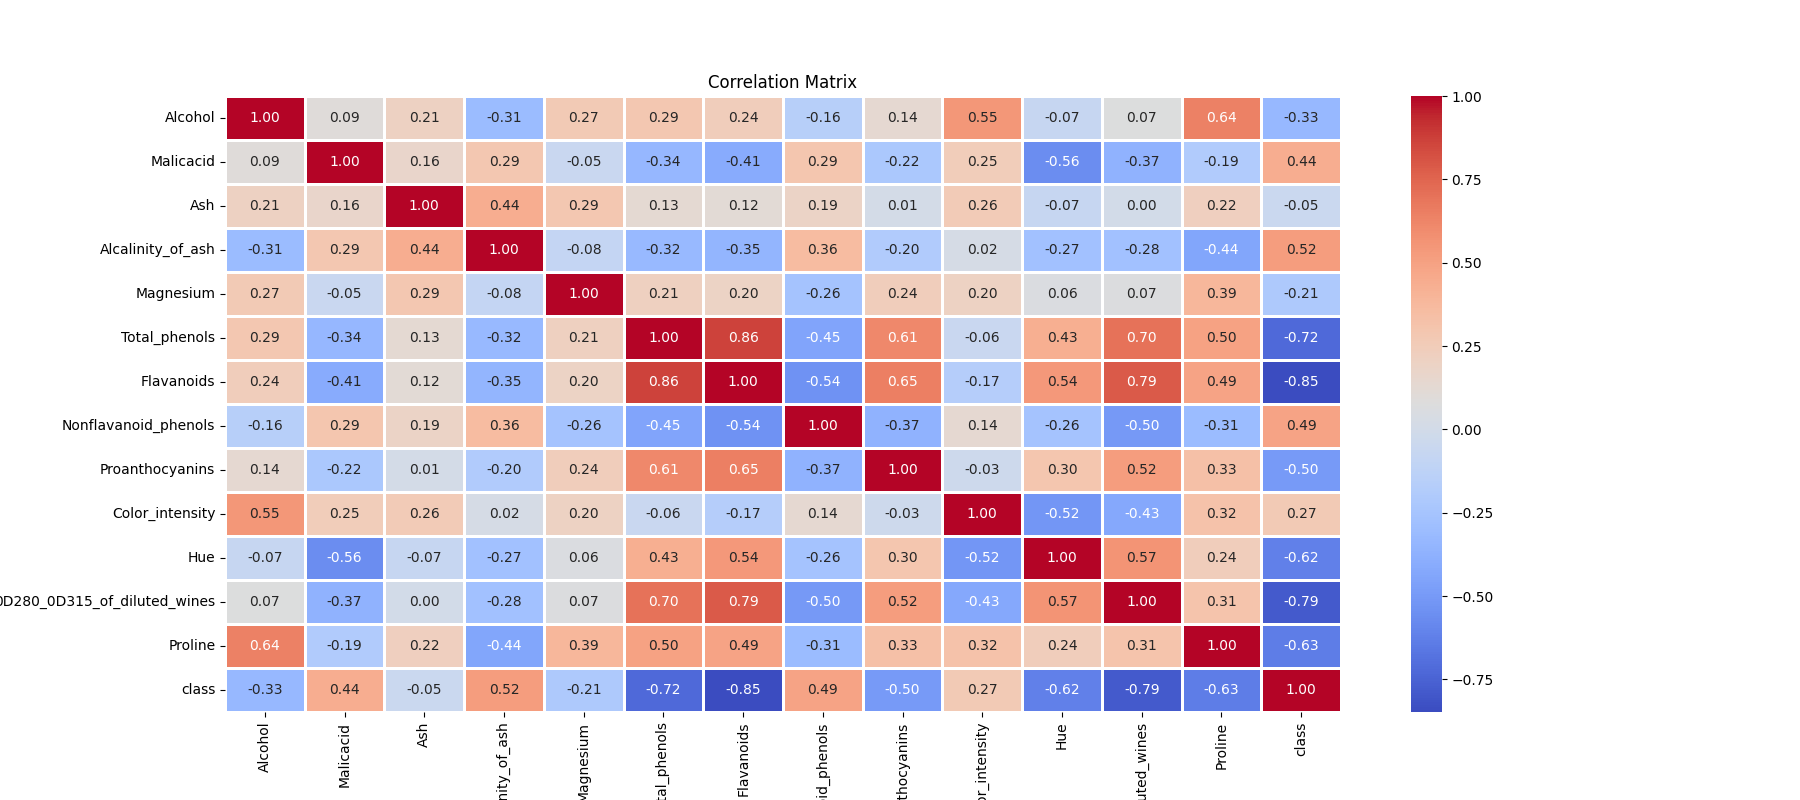
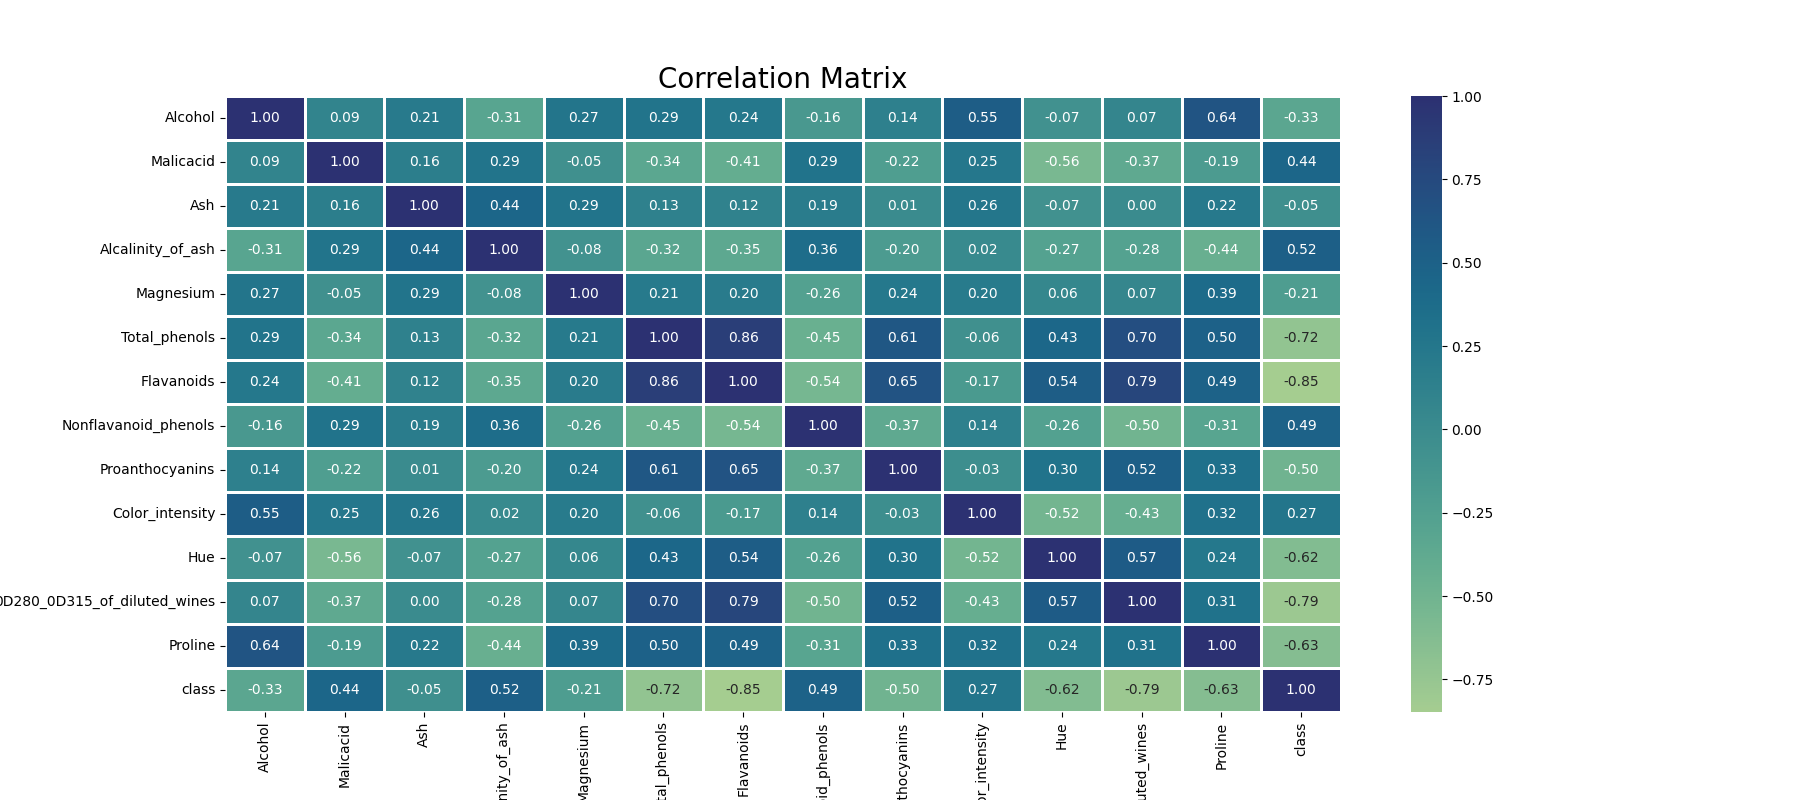
Data visualization.

diff --git a/data_visualization.py b/data_visualization.py
@@ -24,27 +24,37 @@ def print_info(df):
     print('Missing values: \n', df.isnull().sum(), '\n')
 
 
-def detect_outliers(df):
-    for col_name, col_values in df[['age', 'trestbps', 'chol', 'thalach', 'oldpeak']].items():
-        q1 = col_values.quantile(0.25)
-        q3 = col_values.quantile(0.75)
-        irq = q3 - q1
-        outliers = col_values[(col_values <= q1 - 1.5 * irq) | (col_values >= q3 + 1.5 * irq)]
-        percentage_outliers = len(outliers) * 100.0 / len(df)
-        print("Column {} outliers = {}%".format(col_name, round(percentage_outliers, 2)))
-
-
-def correlation_matrix(df):
+def plot_correlation_matrix(df):
     plt.figure(figsize=(18, 8))
-    sns.heatmap(df.corr(), annot=True, cmap='coolwarm', fmt='.2f', linewidths=2)
-    plt.title('Correlation Matrix')
+    sns.heatmap(df.corr(), annot=True, cmap='crest', fmt='.2f', linewidths=2)
+    plt.title('Correlation Matrix', fontsize=20)
     save_image(plt, 'correlation_matrix.png')
     plt.show()
 
 
+def plot_distribution(df):
+    columns = df.columns[:-1]
+    plt.figure(figsize=(20, 10))
+    plt.suptitle('Density distribution of features', fontsize=20)
+
+    for i, column in enumerate(columns, start=1):
+        plt.subplot(3, 5, i)
+        sns.histplot(x=column, hue='class', data=df, palette='crest', kde=True)
+
+    save_image(plt, 'distribution')
+
+
+def plot_pairplot(df):
+    pairplot = sns.pairplot(df, hue='class', palette='viridis')
+    save_image(pairplot, 'pairplot.png')
+
+
 def plot(df):
-    correlation_matrix(df)
+    plot_correlation_matrix(df)
+    plot_distribution(df)
     plt.show()
+    plot_pairplot(df)
+    plt.tight_layout()
 
 
 def main():
@@ -61,9 +71,6 @@ def main():
     print_info(df)
     df = df.dropna()
     plot(df)
-
-
-# detect_outliers(df)
 
 
 if __name__ == '__main__':
